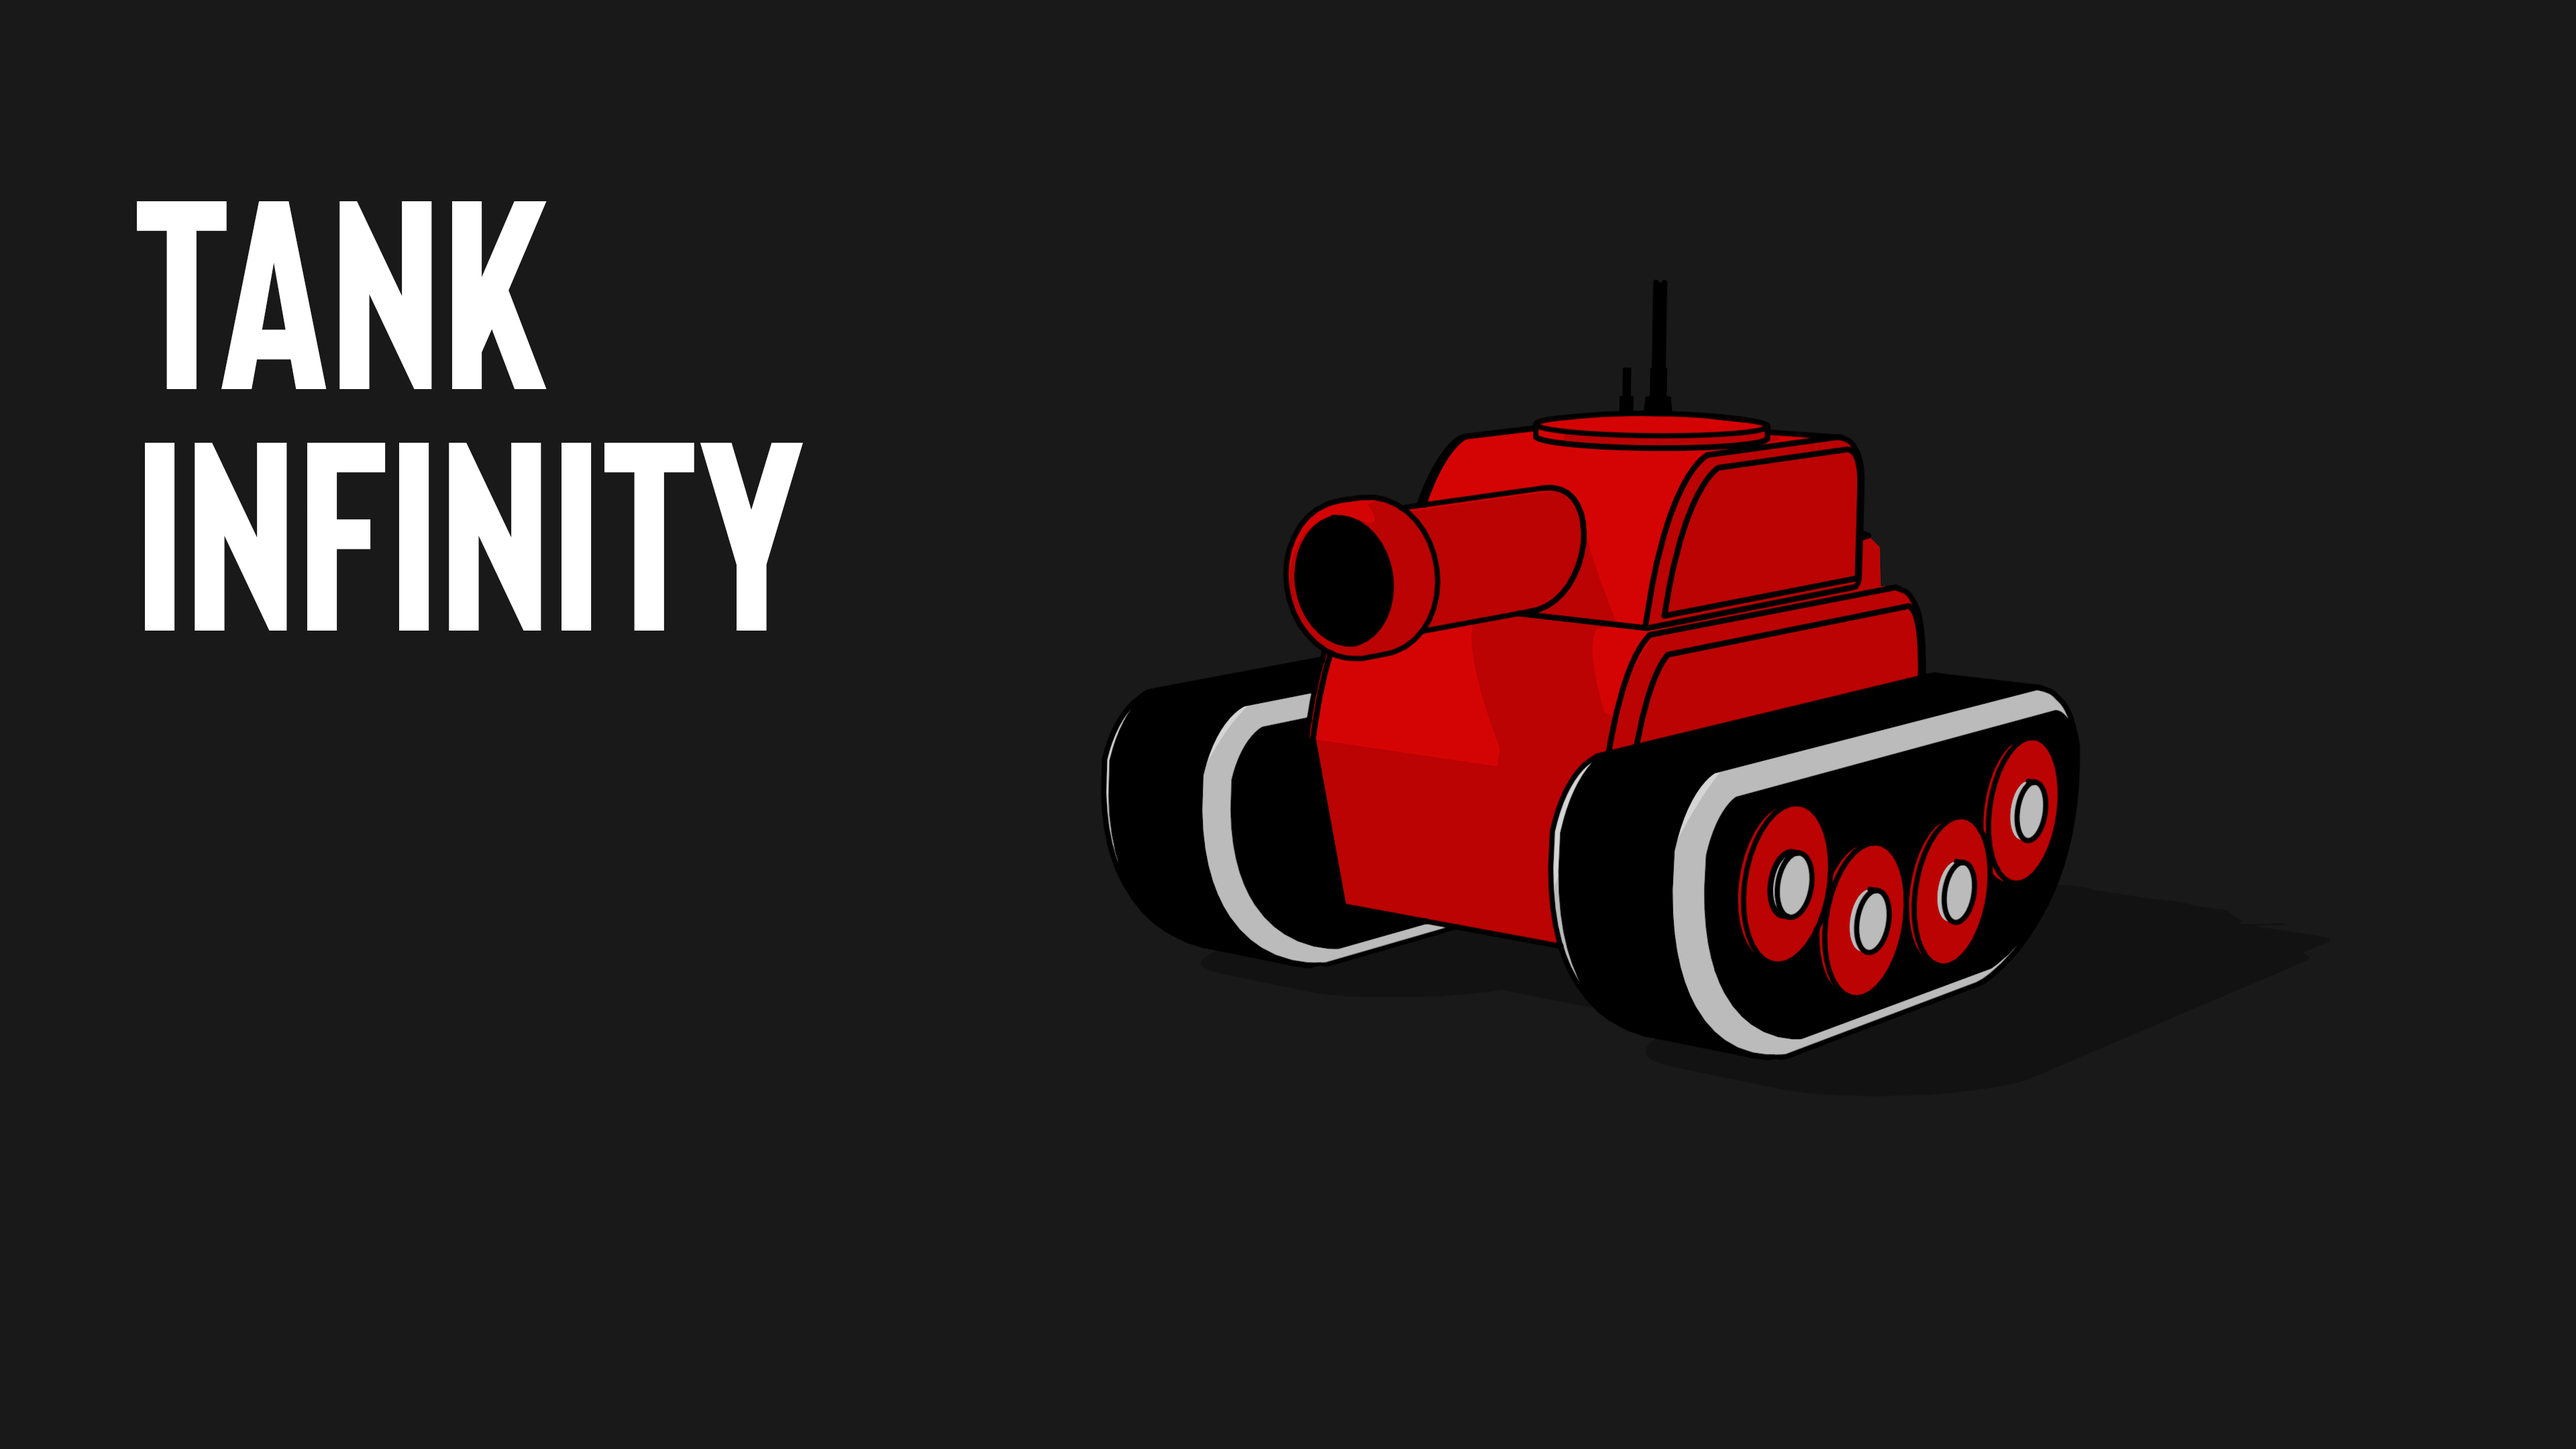
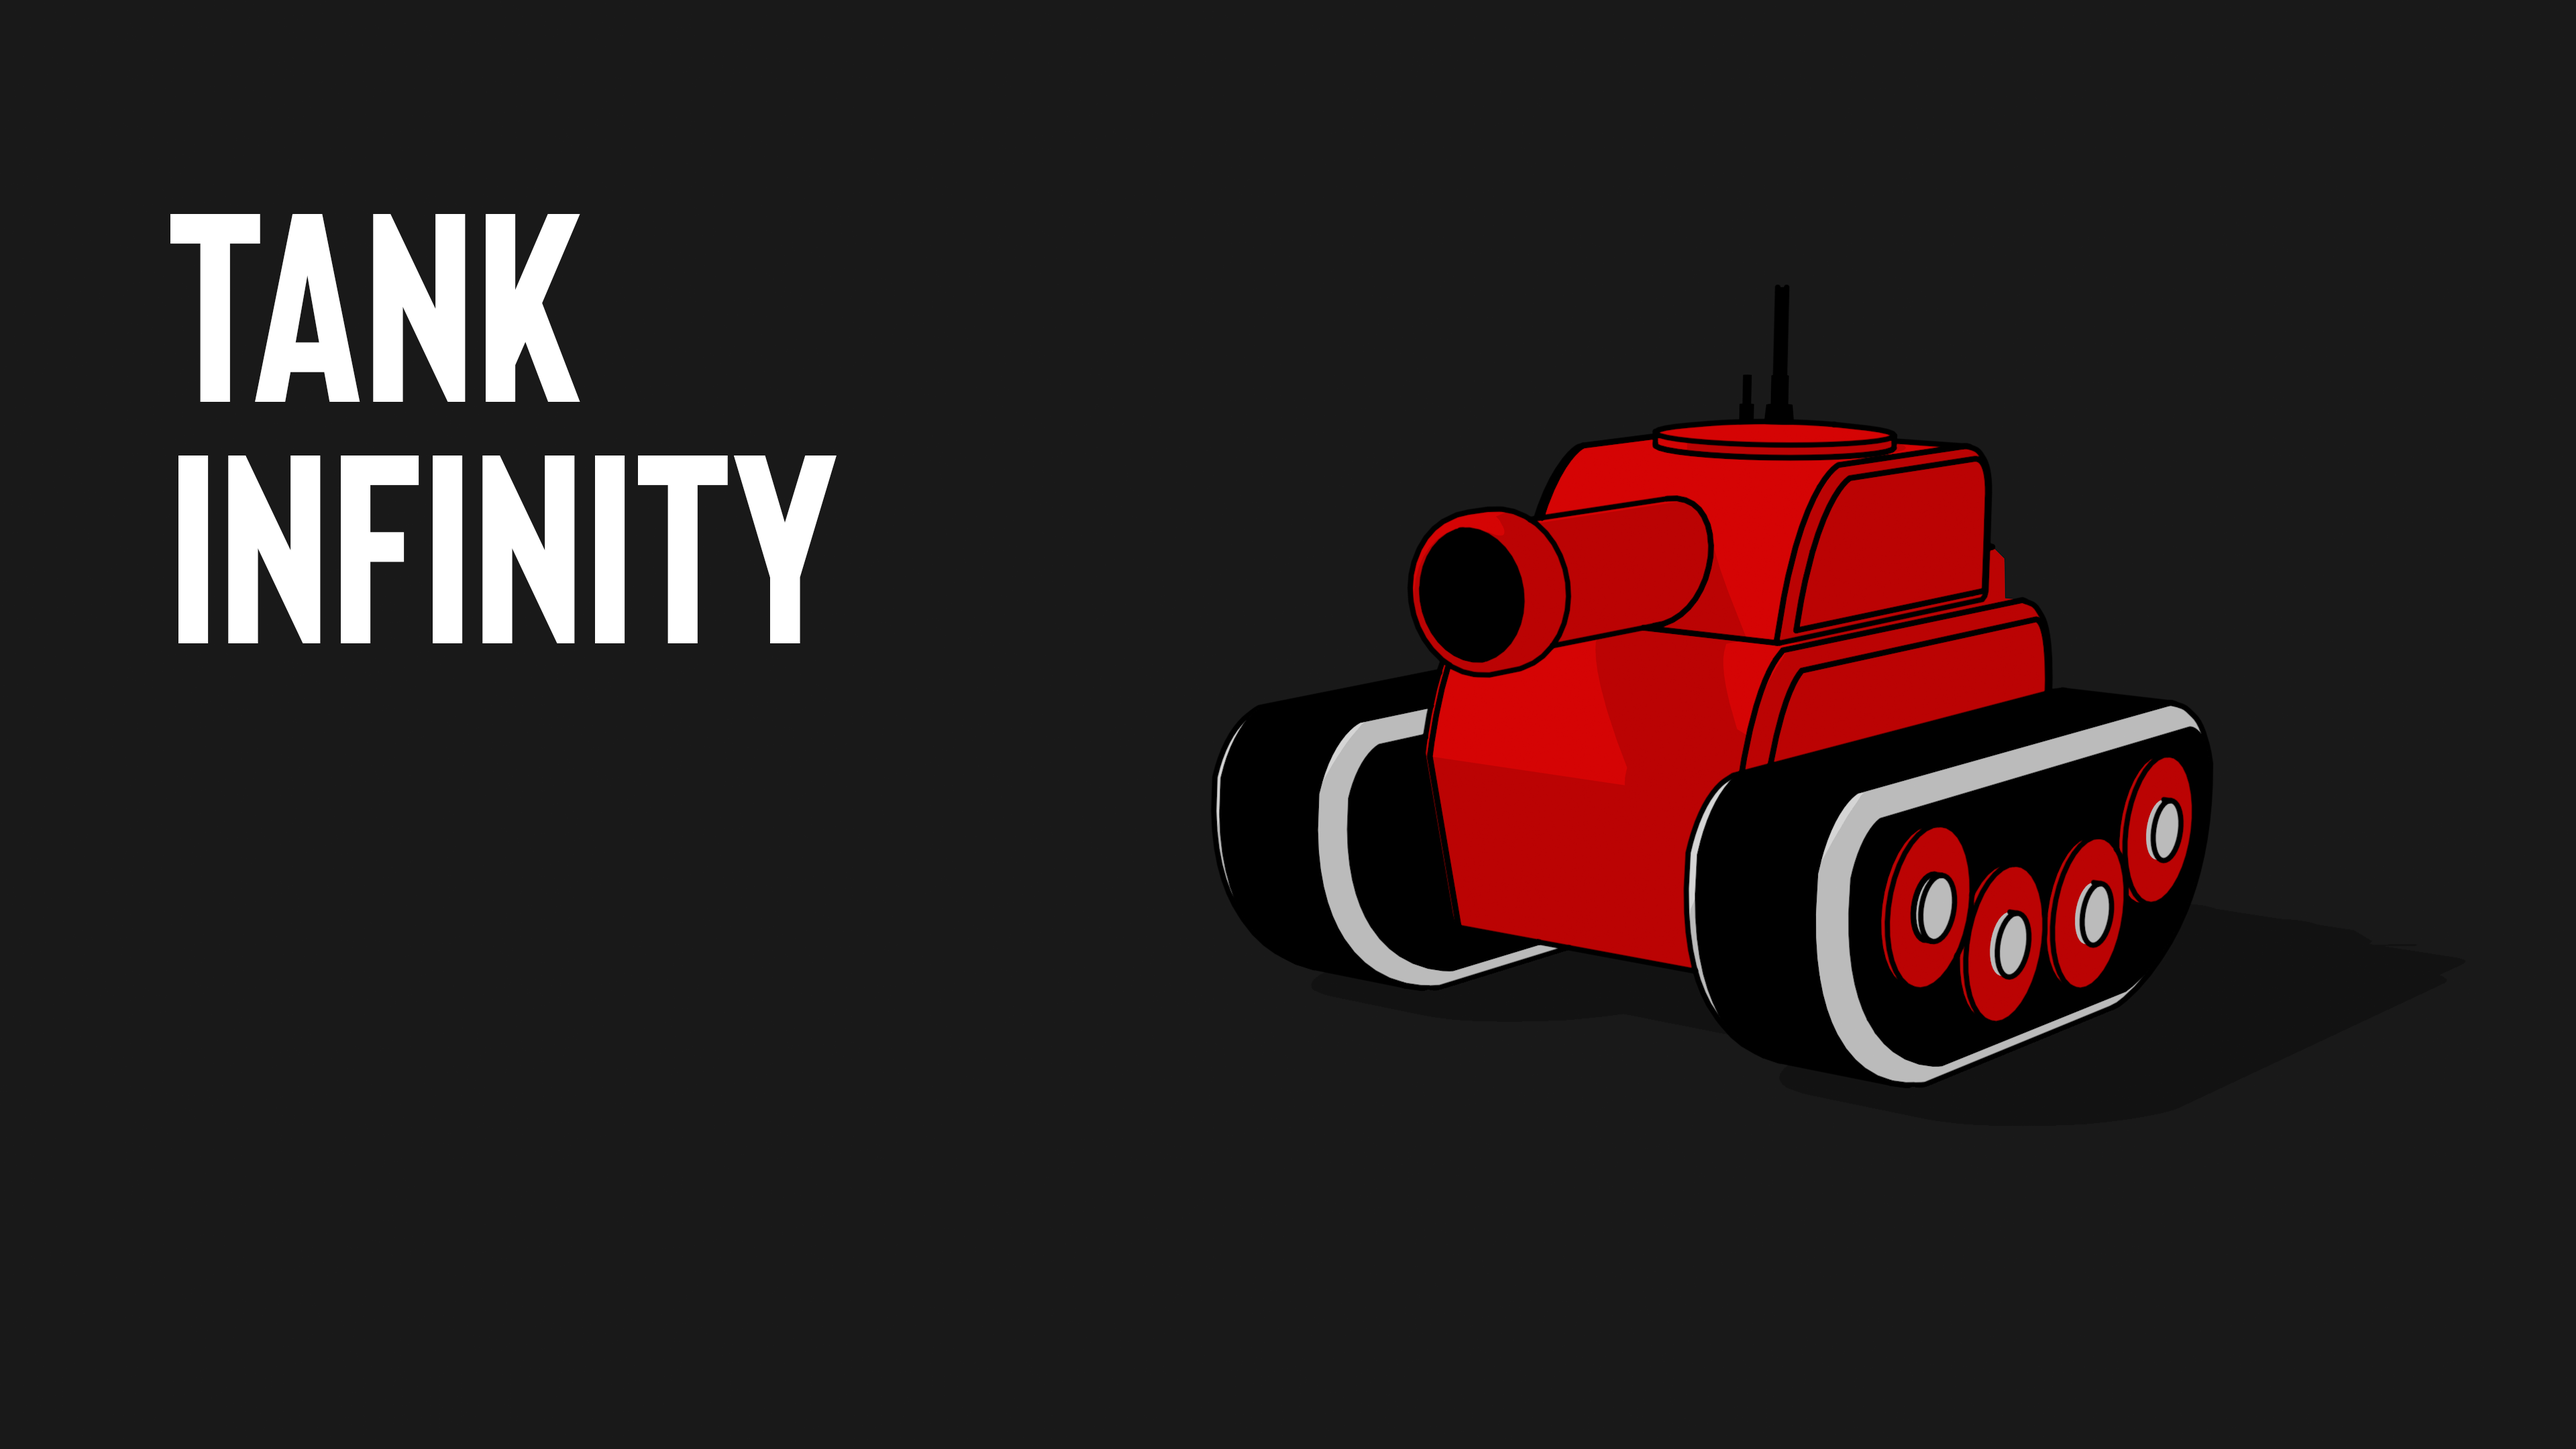
fixes to accommodate new scaling; thicker bullet outline

Changed region(s): [[0.4062, 0.1861, 0.875, 0.7444], [0.0312, 0.1241, 0.3438, 0.4653]]

diff --git a/core/src/com/tank/stage/Loading.java b/core/src/com/tank/stage/Loading.java
@@ -33,7 +33,7 @@ public class Loading extends Stage implements InputProcessor {
 		Background backdropBackground = new Background(backdrop);
 		backdropBackground.setFill(true);
 		tankLoadingBackground = new Background(loading_tank);
-		tankLoadingBackground.setPosition(-loading_tank.getWidth(), 300);
+		tankLoadingBackground.setPosition(-loading_tank.getWidth(), 400);
 		percent = 0;
 		distance = Gdx.graphics.getWidth() + loading_tank.getWidth();
 		buildTable();
@@ -44,7 +44,7 @@ public class Loading extends Stage implements InputProcessor {
 	
 	@Override
 	public void act(float delta) {
-		percent = Interpolation.linear.apply(percent, Assets.manager.getProgress(), 0.05f);
+		percent = Interpolation.linear.apply(percent, Assets.manager.getProgress(), 0.1f);
 		tankLoadingBackground.setX(percent * distance);
 	}
 
